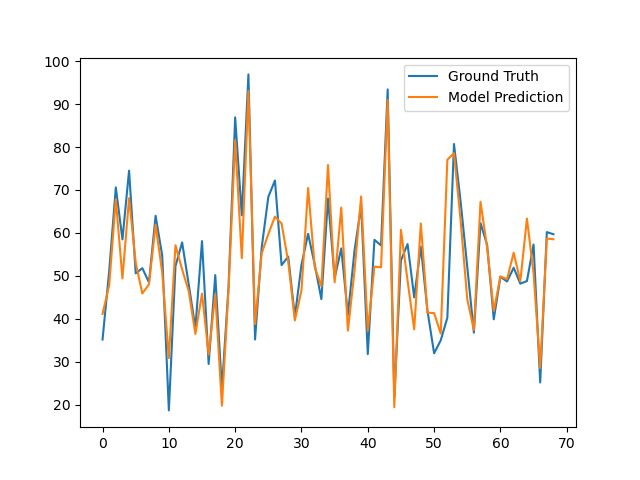
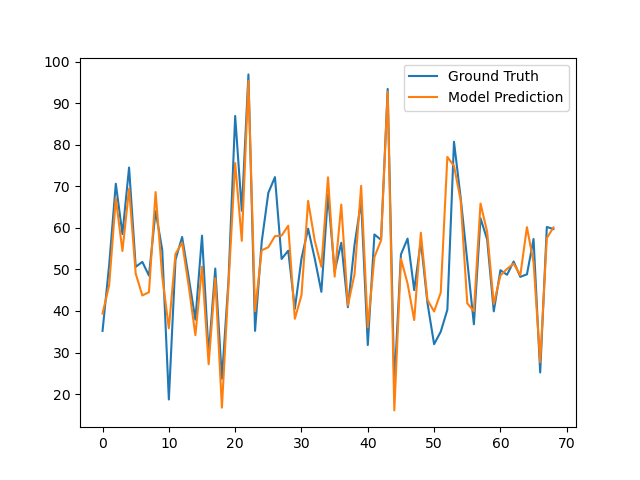
best run yet

diff --git a/scripts/lstm_deep_model_train.py b/scripts/lstm_deep_model_train.py
@@ -29,9 +29,9 @@ os.environ["KERAS_BACKEND"] = "tensorflow"
 ### CHANGE THESE BELOW FOR MESSING WITH MODEL
  
 h_s = 256   # {32, 64, 96, 128, 256}
-dropout = 0.2  # {0.05, 0.1, 0.2, 0.4, 0.4, 0.5}
+dropout = 0.25  # {0.05, 0.1, 0.2, 0.4, 0.4, 0.5}
 batch_size = 512 # paper said this didn't matter much. Dont change  
-epochs = 25   # Try not to go above 50 - it will stop when it starts to overfit
+epochs = 50   # Try not to go above 50 - it will stop when it starts to overfit
 lr_rate = 0.001   # (0.001, 3e-4, 5e-4)
 ### DO NOT CHANGE BELOW
 

diff --git a/scripts/model_train.py b/scripts/model_train.py
@@ -29,9 +29,9 @@ os.environ["KERAS_BACKEND"] = "tensorflow"
 ### CHANGE THESE BELOW FOR MESSING WITH MODEL
  
 h_s = 256   # {32, 64, 96, 128, 256}
-dropout = 0.2  # {0.05, 0.1, 0.2, 0.4, 0.4, 0.5}
+dropout = 0.25  # {0.05, 0.1, 0.2, 0.4, 0.4, 0.5}
 batch_size = 512 # paper said this didn't matter much. Dont change  
-epochs = 25   # Try not to go above 50 - it will stop when it starts to overfit
+epochs = 50   # Try not to go above 50 - it will stop when it starts to overfit
 lr_rate = 0.001   # (0.001, 3e-4, 5e-4)
 ### DO NOT CHANGE BELOW
 

diff --git a/scripts/lstm_model_train.py b/scripts/lstm_model_train.py
@@ -31,7 +31,7 @@ os.environ["KERAS_BACKEND"] = "tensorflow"
 h_s = 256   # {32, 64, 96, 128, 256}
 dropout = 0.25  # {0.05, 0.1, 0.2, 0.4, 0.4, 0.5}
 batch_size = 512 # paper said this didn't matter much. Dont change  
-epochs = 25   # Try not to go above 50 - it will stop when it starts to overfit
+epochs = 50   # Try not to go above 50 - it will stop when it starts to overfit
 lr_rate = 0.001   # (0.001, 3e-4, 5e-4)
 ### DO NOT CHANGE BELOW
 
